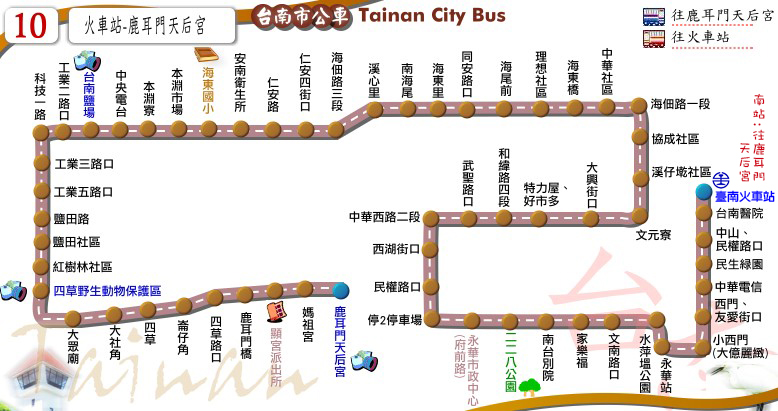
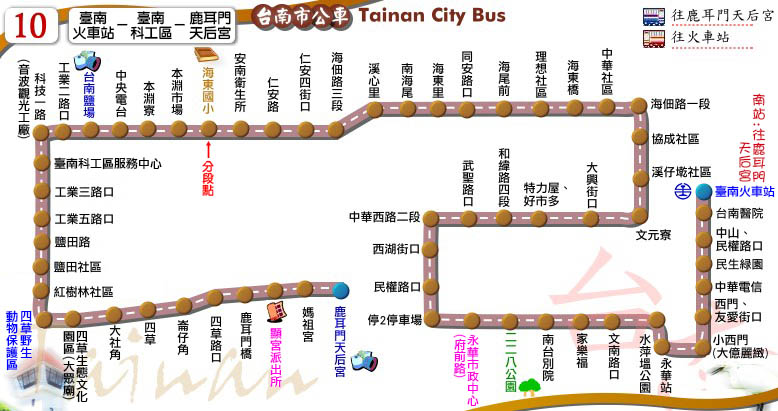
Update city_bus_10

diff --git a/route/fare_and_time/city_bus_10.js b/route/fare_and_time/city_bus_10.js
@@ -1,8 +1,8 @@
 // format = [time at the start stop] or
 // [time, other] or
 // [time, start_stop, end_stop, other]
-city_bus_10_main_stop_name = ["臺南<br />火車站","小西門<br />(大億麗緻)","永華市政中心<br />(府前路)","特力屋<br />好市多","同安<br />路口","海東<br />國小","科技<br />一路","鹽田生態<br />文化村","四草生態文化<br />園區(大眾廟)","鹿耳門<br />天后宮"];
-city_bus_10_main_stop_time_consume = [0, 9, 15, 23, 33, 45, 53, 59, 60, 65];
+city_bus_10_main_stop_name = ["臺南<br />火車站","小西門<br />(大億麗緻)","永華市政中心<br />(府前路)","特力屋<br />好市多","同安路口","海東國小","臺南科工區<br />服務中心","四草野生<br />動物保護區","大眾廟","鹿耳門<br />天后宮"];
+city_bus_10_main_stop_time_consume = [0, 9, 15, 25, 35, 45, 53, 59, 60, 65];
 city_bus_10_important_stop = [0, 2, 5, 7, 9]; // 臺南火車站, 永華市政中心, 海東國小, 鹽田生態村, 鹿耳門天后宮
-city_bus_10_time_go = [["06:10",[6]],["07:20",[6,[1,-5,3,-3,4,-5,5,-7]]],["08:35"],["11:00"],["12:10"],["14:30"],["16:00",[6,[3,-3,4,-5,5,-7]]],["17:20",[6]],["18:30",[6]]];
-city_bus_10_time_return = [["06:10",[6]],["07:15",[6]],["08:50",[6]],["10:00"],["12:30"],["13:40"],["16:00"],["17:00"],["18:50",[6]],["20:10",[6]]];
+city_bus_10_time_go = [["06:10"],["07:20",[[1,-5,3,-3,4,-5,5,-7]]],["08:35"],["11:00"],["12:10"],["14:30"],["16:00",[[3,-3,4,-5,5,-7]]],["17:20"],["18:30"]];
+city_bus_10_time_return = [["06:10"],["07:15"],["08:50"],["10:00"],["12:30"],["13:40"],["16:00"],["17:00"],["18:50"],["20:10"]];

diff --git a/tools/route_infor.js b/tools/route_infor.js
@@ -99,7 +99,7 @@ city_bus_5_route = '桂田酒店 ─ 市立醫院、大甲里';
 city_bus_6_route = '裕聖里 ─ 新興國宅';
 city_bus_7_route = '臺南火車站 ─ 康寧大學';
 city_bus_9_route = '臺南火車站 ─ 公親里、溪埔寮';
-city_bus_10_route = '臺南火車站 ─ 鹿耳門天后宮';
+city_bus_10_route = '臺南火車站 ─ 科工區 ─ 鹿耳門天后宮';
 city_bus_11_route = '大成路口 ─ 城西里';
 city_bus_14_route = '臺南火車站 ─ 億載金城';
 city_bus_15_route = '奇美醫院 ─ 大成國中';

diff --git a/city_bus/city_bus_10.html b/city_bus/city_bus_10.html
@@ -7,7 +7,7 @@
 	route_name_en = 'No.10';
 	route_file_name = 'city_bus_10';
 	route_type = 'city_bus';
-	route_interval = ['臺南火車站','鹿耳門天后宮'];
+	route_interval = ['臺南火車站','科工區','鹿耳門天后宮'];
 </script>
 <script src="../tools/web_model.js"></script> 
 <script type="text/javascript">
